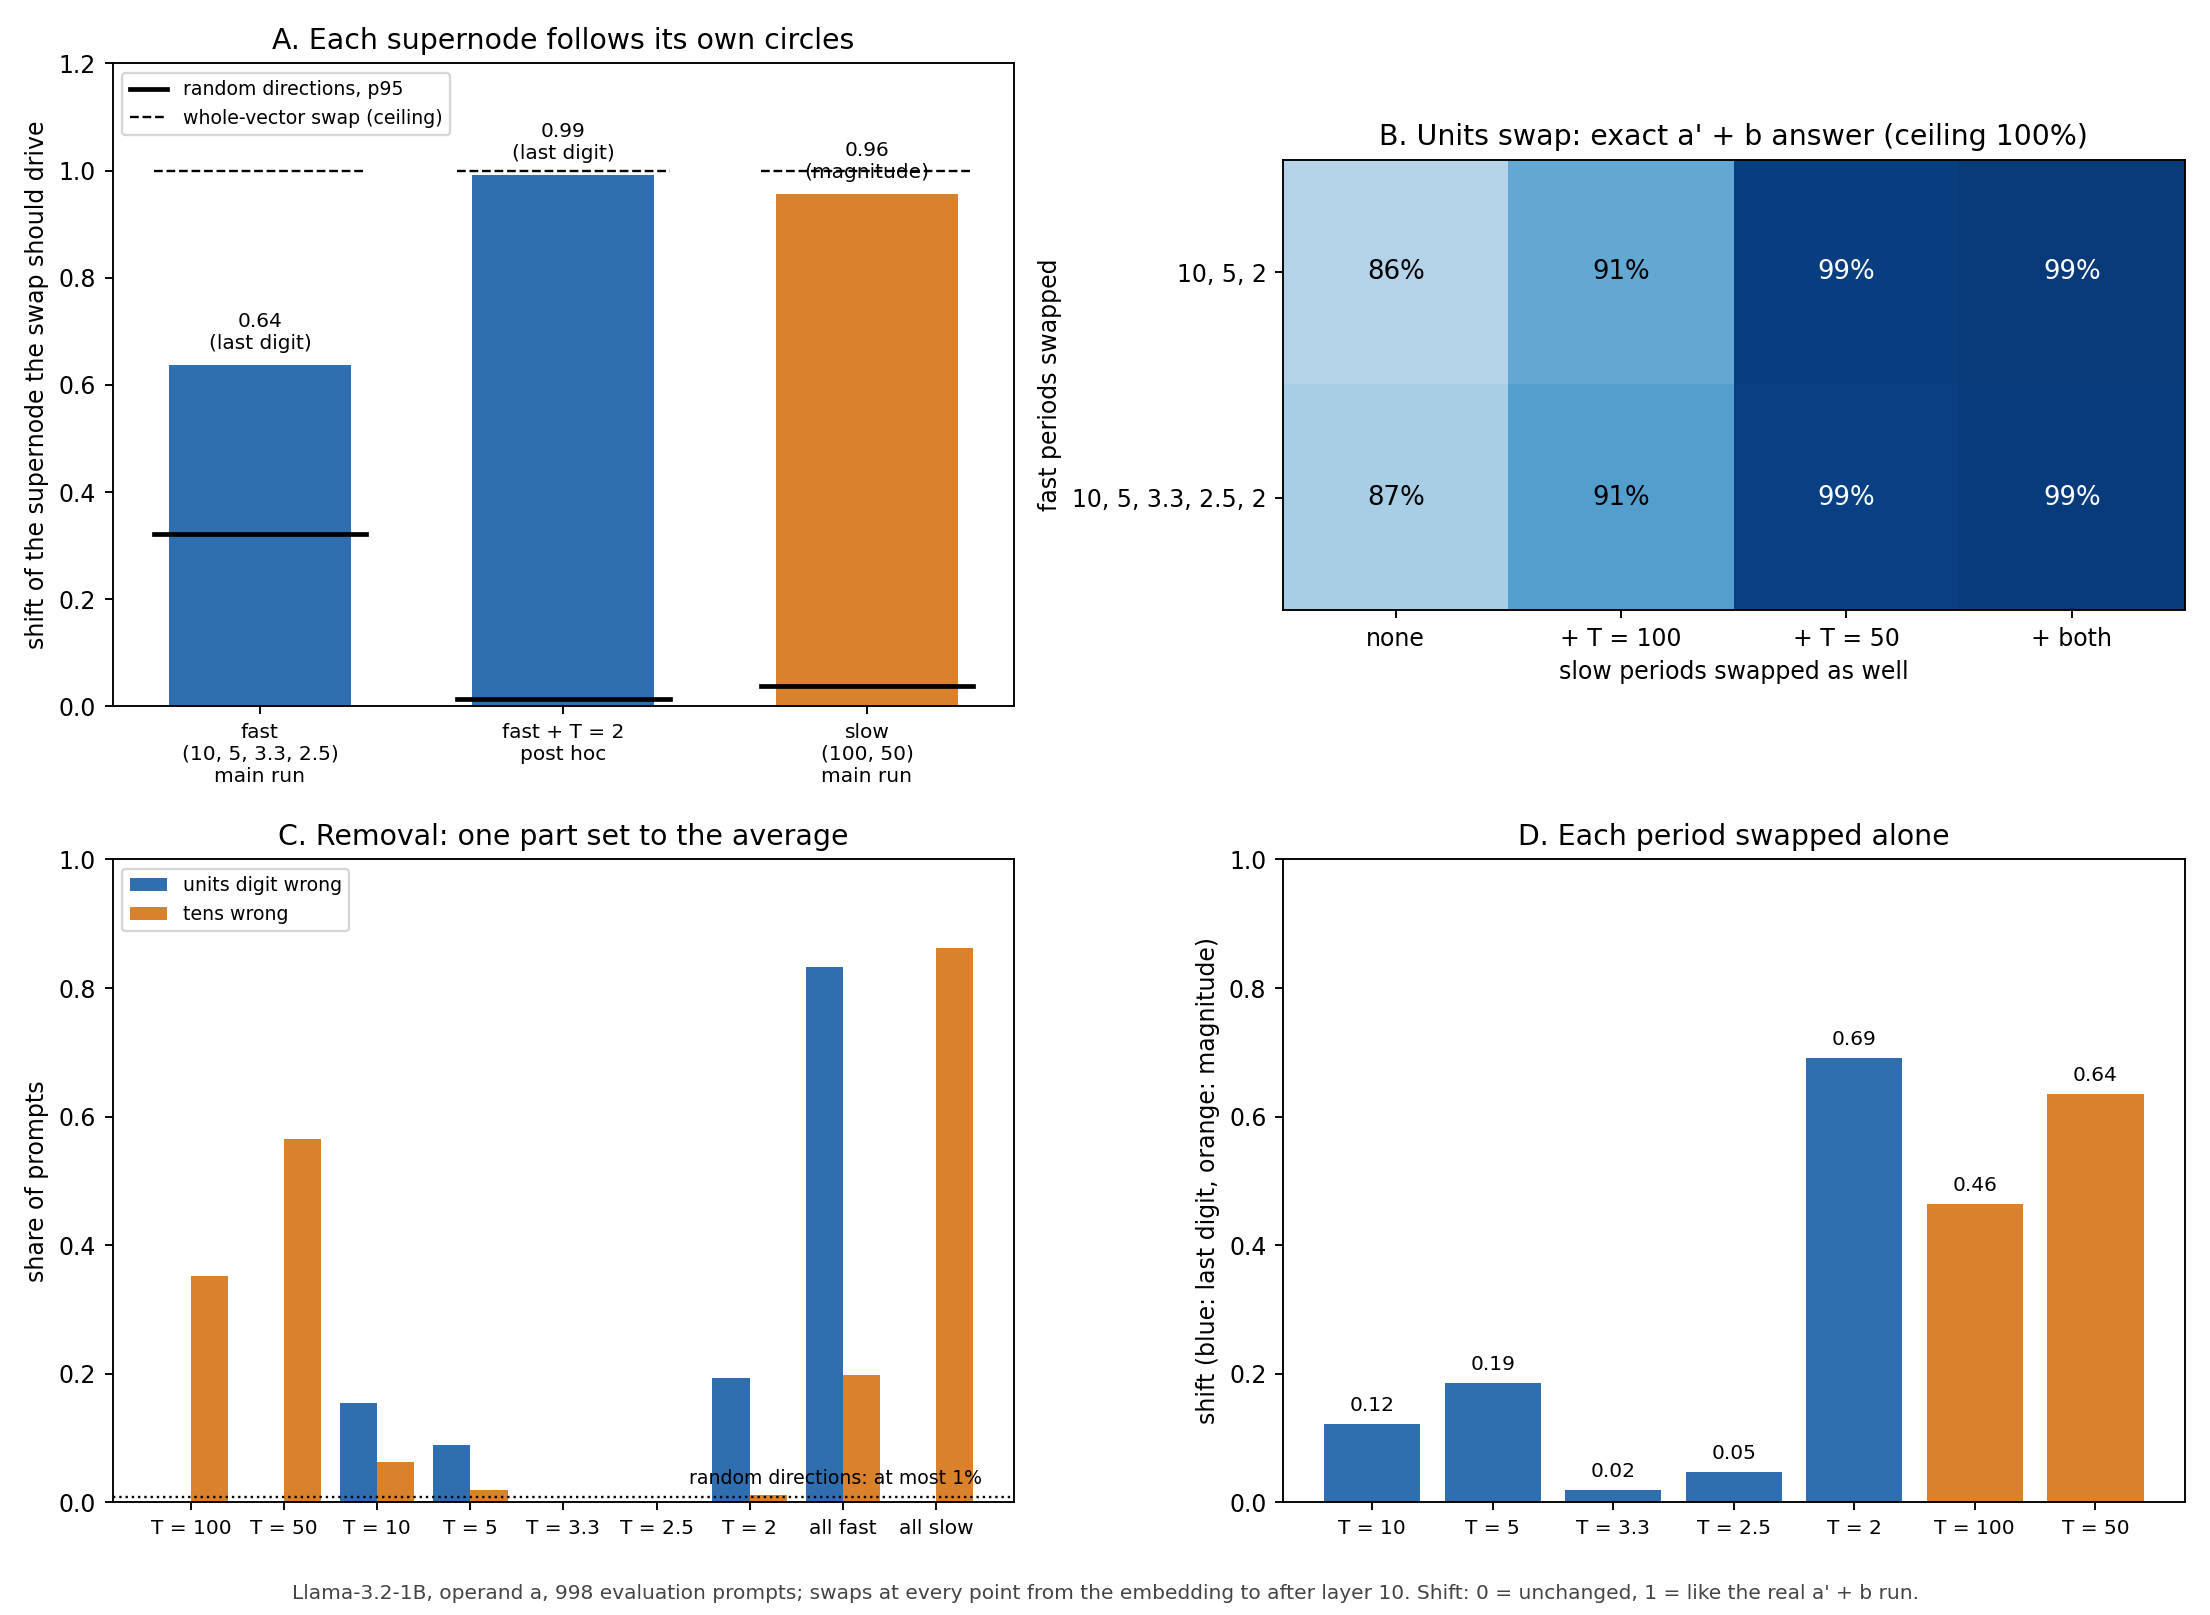
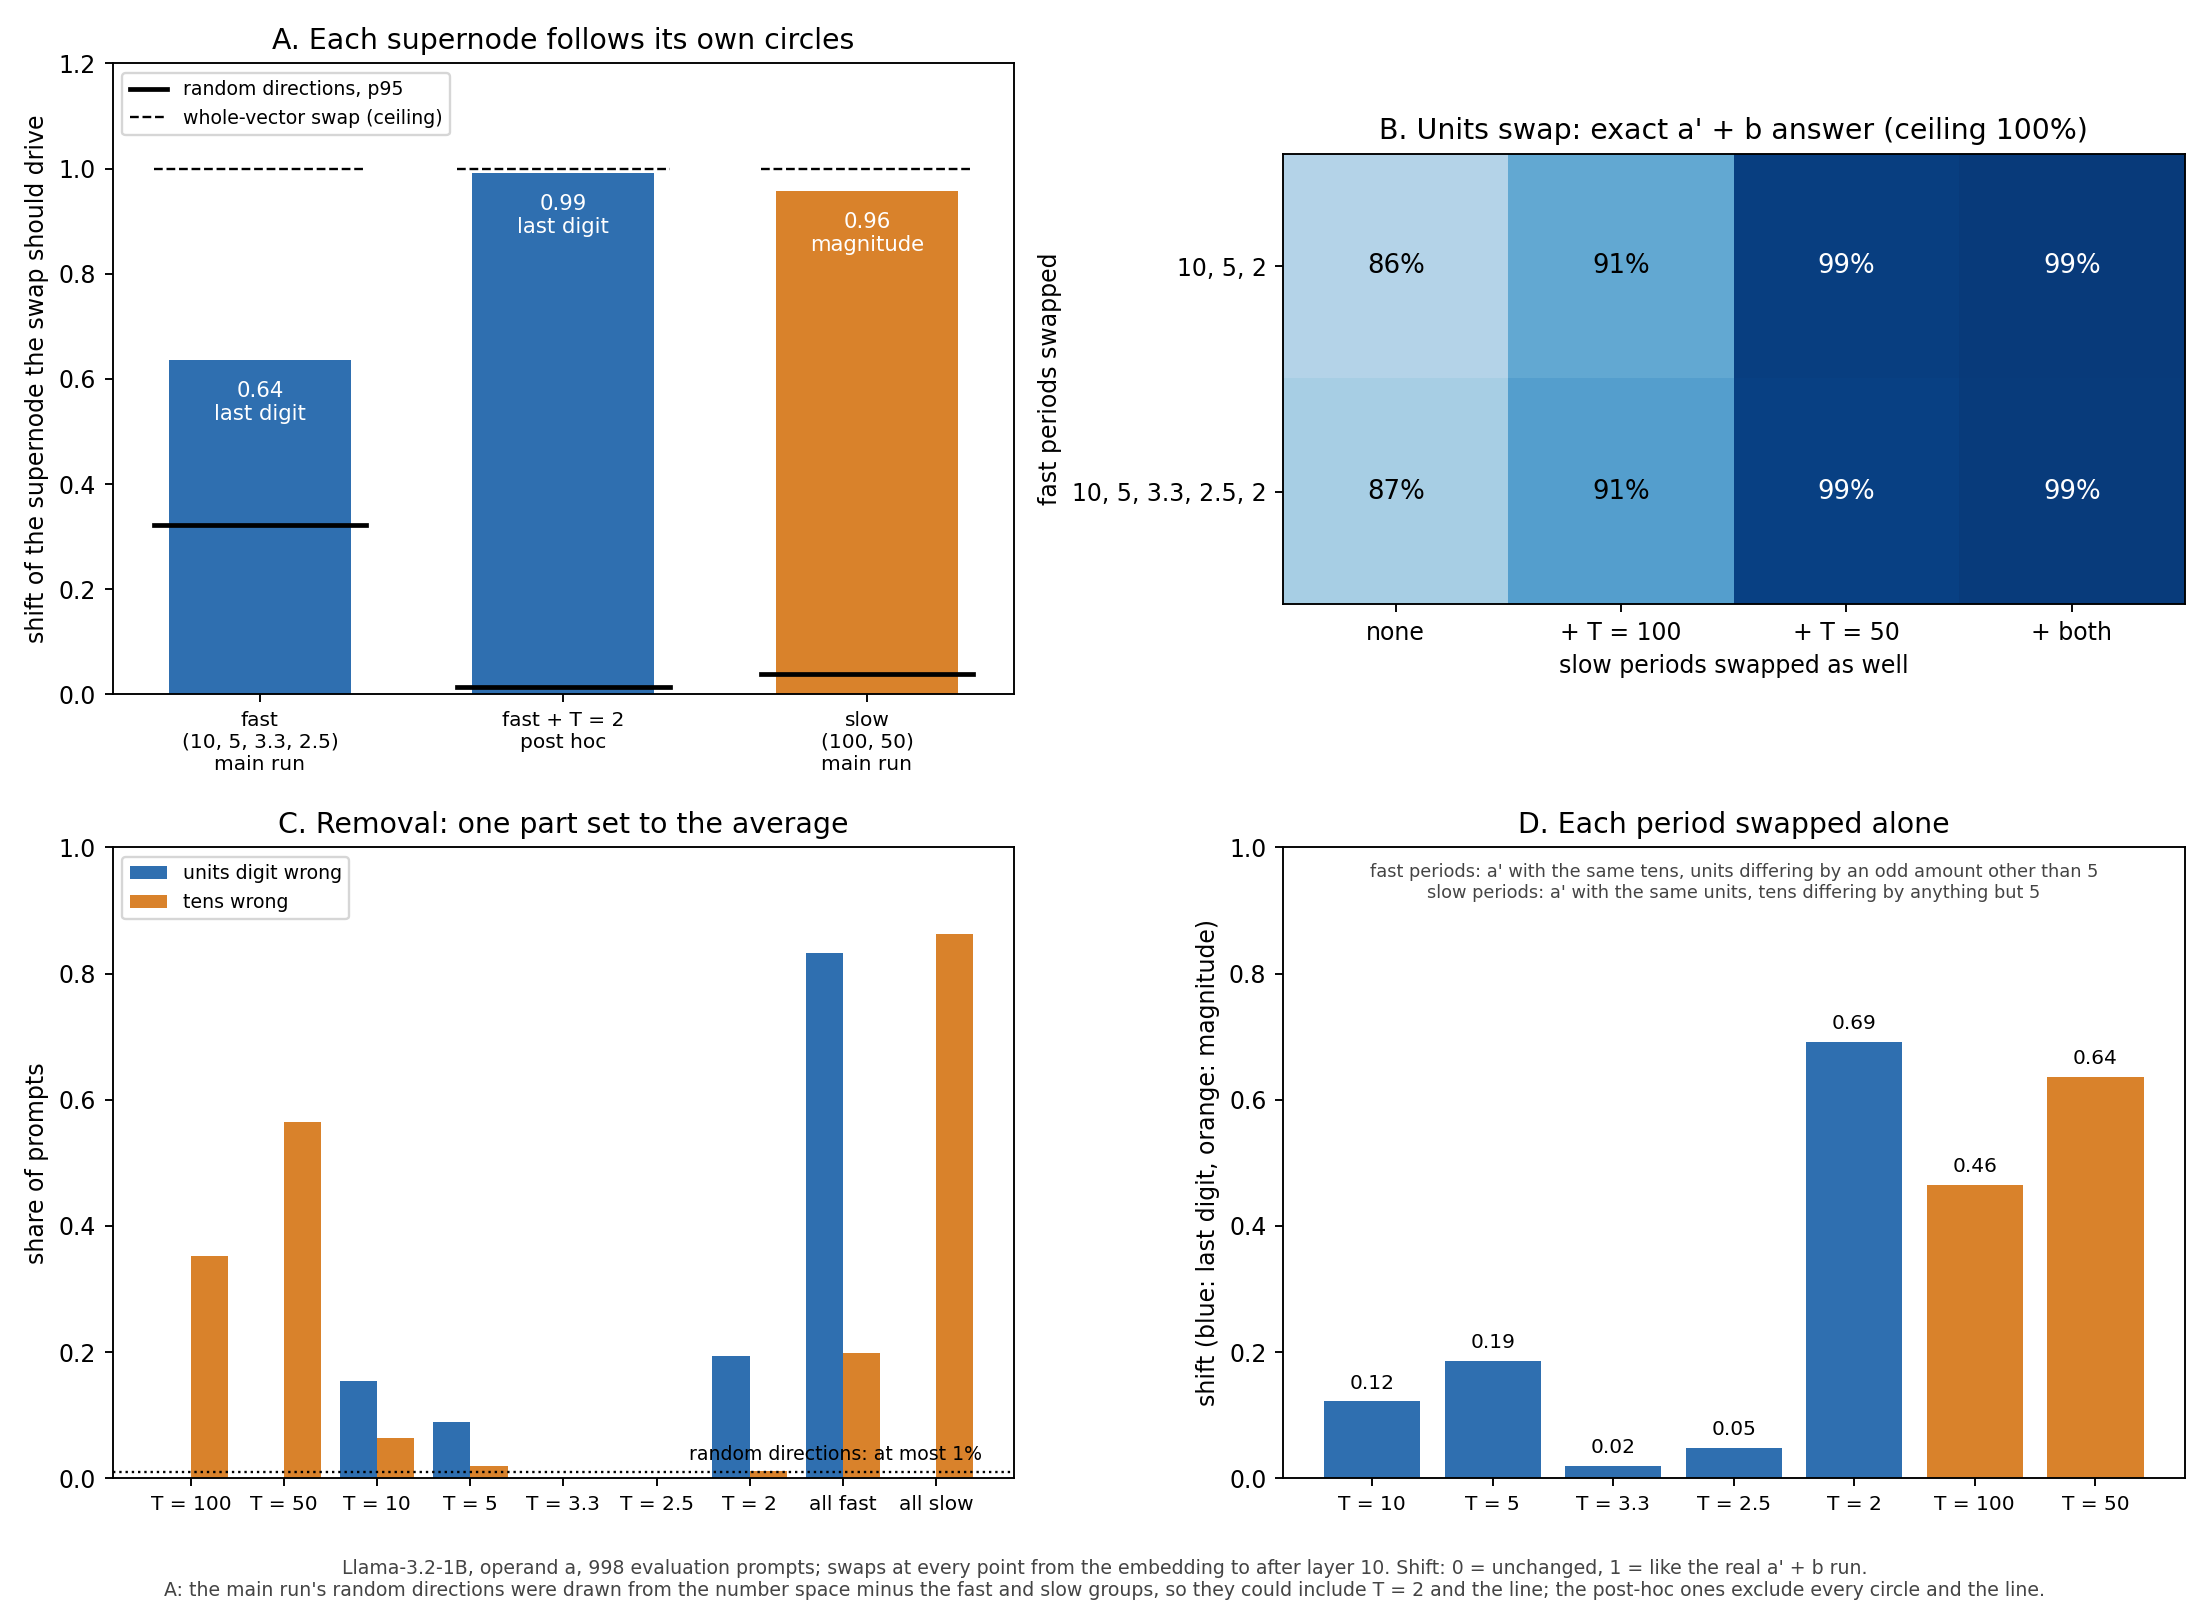
q2 res

diff --git a/preregistration.md b/preregistration.md
@@ -667,3 +667,10 @@ all with the logits of the clean and the target answer:
 - Note (2026-11-21): the sub-helix fits use all 100 numbers, so the patched
   numbers are in the fit (in-sample); the step-1 helix patching (9.1) was
   out-of-sample. The two are not directly comparable.
+- Note (2026-11-21): the main run's floor (9.6) drew random directions from
+  the number space minus the digit and slow groups. That space still held
+  the T = 2 direction and the line, so random sets could partly swap T = 2,
+  which moves the last-digit supernode (floor median 0.27 for 8 directions).
+  The post-hoc floor excludes every circle and the line (median 0.01 for 9
+  directions). The preregistered decisions stand as computed; the main
+  run's digit floor was conservative.
